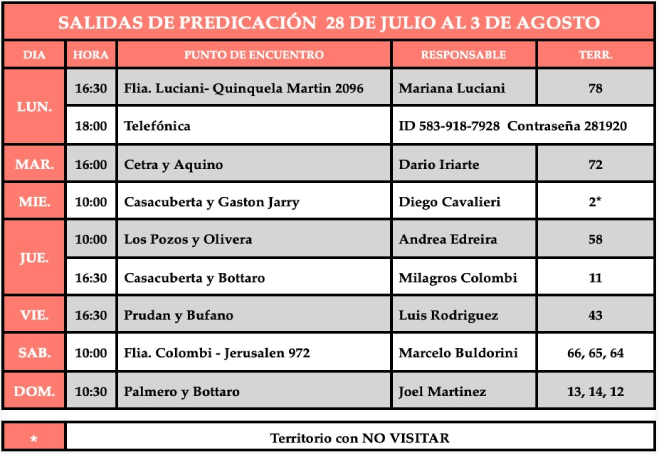
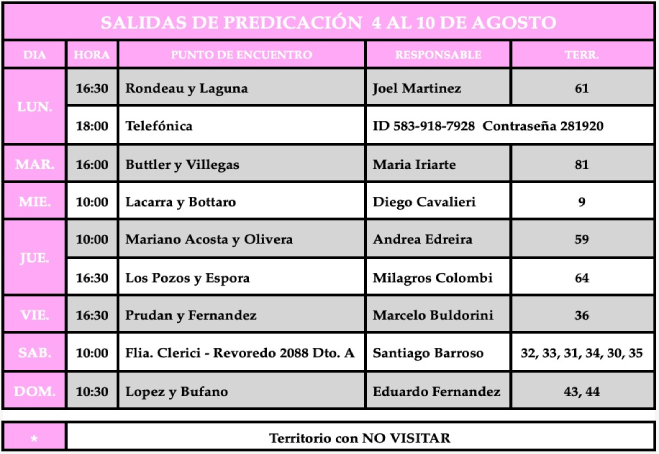
actualizo salida, limpieza y programa

diff --git a/pages/programaSemanal/programaSemanal.html b/pages/programaSemanal/programaSemanal.html
@@ -39,7 +39,7 @@
     <main>
         <section class="reuSemanal">
             <h2> Programa para la reunión entre semana</h2>
-            <img src="./asignacionesJulio.png" alt="">
+            <img src="./asignacionesAgosto.png" alt="">
         </section>
     </main>
     <footer>
